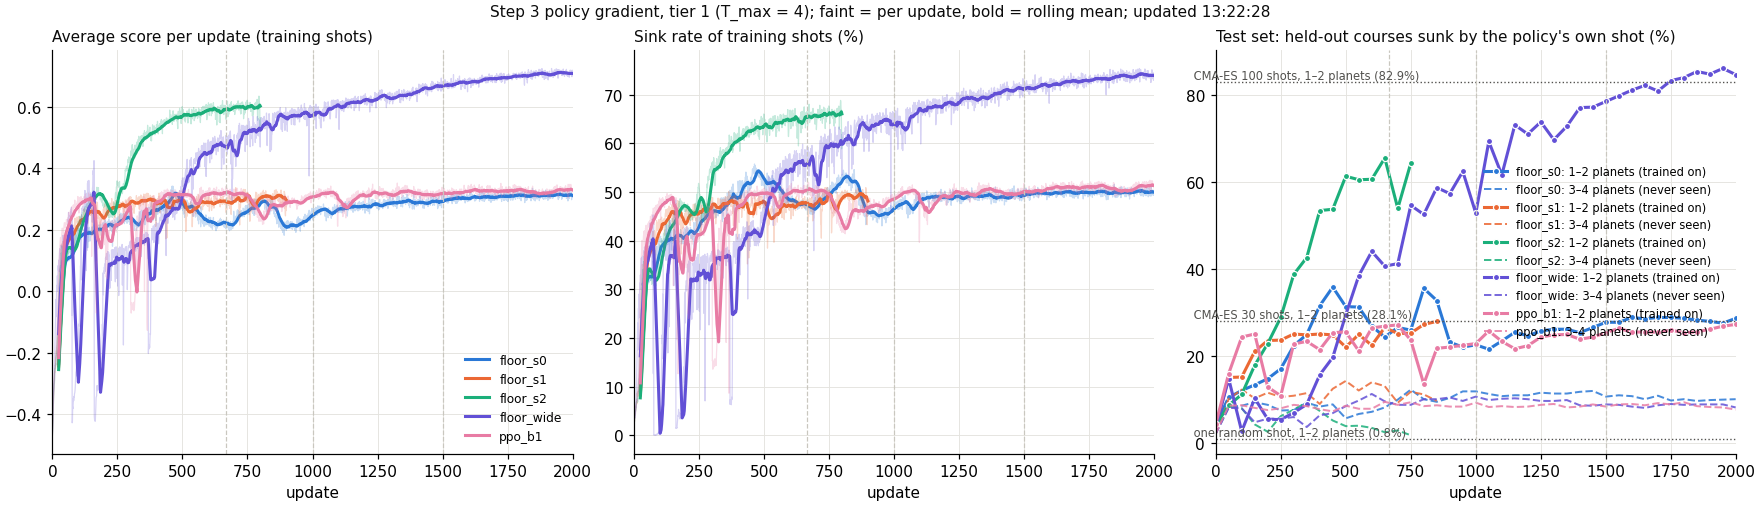
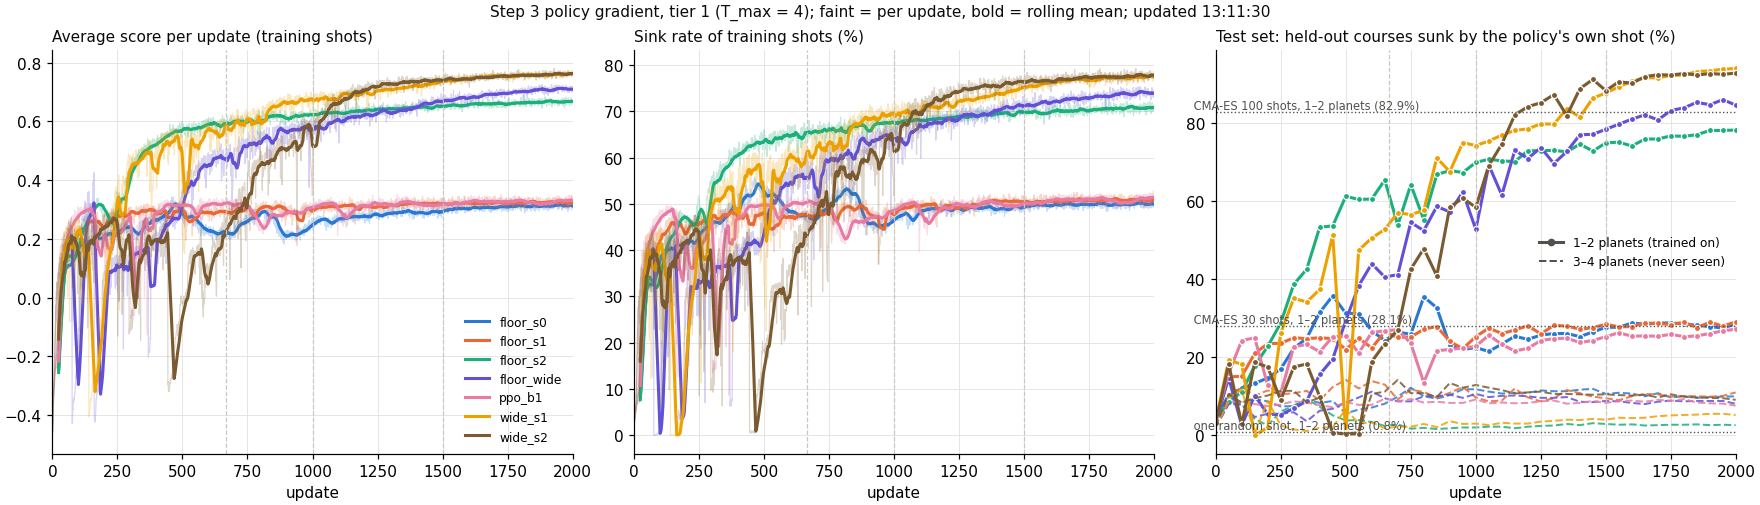
Sky classifier: the anomaly hunt. Gravity golf: three wide seeds (85-94%).
The sky-classifier page gets a section with the step 5 gallery: an asteroid
SDSS catalogs as a star, bright stars, edge-on galaxies and neighbors. It
also explains why max-softmax and energy only find faint, ambiguous
sources. "Coming" is now the field browser.

The gravity-golf learning curves now show all seven runs. The page and hub
numbers are updated: 85-94% on 1-2 planets over three seeds, and one small
network escapes the 28% plateau.

diff --git a/sky-classifier/index.html b/sky-classifier/index.html
@@ -23,6 +23,7 @@
       <li><a href="#removal">Removal test</a></li>
       <li><a href="#faint">Faint galaxies</a></li>
       <li><a href="#colors">Star colors</a></li>
+      <li><a href="#anomalies">Anomalies</a></li>
       <li><a href="#history">How it started</a></li>
     </ul>
   </div>
@@ -160,6 +161,26 @@
     </figure>
   </section>
 
+  <!-- ===================== ANOMALIES ===================== -->
+  <section id="anomalies">
+    <h2>The strangest things in 300 SDSS fields</h2>
+    <p class="prose">Every one of the 1,859 detections in the real fields is scored by how unfamiliar it looks to the final
+      classifier. Each score's threshold flags 5% of simulated objects, and on held-out simulated objects it flags 4–6%, as it
+      should. Two lessons came before any discoveries. First, the network judges the whole 24″ window, so a faint detection
+      beside a bright red neighbor looks strange. Ranking only detections that are the brightest thing in their own window fixes
+      that. Second, the two scores built on the output probabilities (max-softmax and energy) mostly find faint sources at the
+      detection limit. For a star-or-galaxy network they measure <i>ambiguity</i>, not strangeness. The feature-space score
+      (Mahalanobis distance) finds the odd objects.</p>
+    <figure class="fig">
+      <a class="zoom" href="img/fa5_anomalies.png"><img src="img/fa5_anomalies.png" alt="Gallery of the top-ranked anomalies, grouped by what they are: moving objects, bright stars, edge-on galaxies, neighbors and faint sources" loading="lazy"></a>
+      <figcaption><b>The top 50 by Mahalanobis distance, sorted by eye:</b> 18 neighbors, pairs or superpositions, 16 bright
+        stars with saturated, color-shifted cores, 11 large or edge-on galaxies, and 3 moving objects. The top-left object is an
+        <b>asteroid</b>: SDSS takes the r, i and g images minutes apart, so a moving rock shows up as separate green, red and
+        blue dots. SDSS's own catalog lists it as a star, and the network agrees with P(star) = 0.97. Only the anomaly score
+        notices. The bottom row is what max-softmax and energy rank highest: faint sources the network can't call either way.</figcaption>
+    </figure>
+  </section>
+
   <!-- ===================== HISTORY ===================== -->
   <section id="history">
     <h2>How it started: building the telescope</h2>
@@ -206,8 +227,8 @@
 
   <section id="next">
     <h2>Coming</h2>
-    <div class="callout prose"><p>An anomaly hunt: every detection in 300 real SDSS fields ranked by how unfamiliar it looks to the
-      network, and a gallery of the strangest things it finds.</p></div>
+    <div class="callout prose"><p>An interactive browser for the 300 real fields: every detection with its call, its probability
+      and its anomaly scores.</p></div>
   </section>
 </main>
 

diff --git a/gravity-golf/index.html b/gravity-golf/index.html
@@ -55,8 +55,8 @@
     <div class="stat-row">
       <div class="stat"><div class="v">0.8%</div><div class="l">of random shots sink</div></div>
       <div class="stat"><div class="v">~100</div><div class="l">shots CMA-ES needs to sink 83% of courses</div></div>
-      <div class="stat"><div class="v">85%</div><div class="l">sunk by the policy in one shot (1–2 planets)</div></div>
-      <div class="stat"><div class="v">6–10%</div><div class="l">on 3–4 planet courses it never trained on</div></div>
+      <div class="stat"><div class="v">85–94%</div><div class="l">sunk by the policy in one shot (1–2 planets, 3 seeds)</div></div>
+      <div class="stat"><div class="v">5–9%</div><div class="l">on 3–4 planet courses it never trained on</div></div>
     </div>
   </section>
 
@@ -105,10 +105,11 @@
       is trained by policy gradient on a stream of random courses, then tested on courses it has never seen.</p>
     <figure class="fig">
       <a class="zoom" href="img/step3_learning.png"><img src="img/step3_learning.png" alt="Learning curves for several training runs, with CMA-ES reference lines" loading="lazy"></a>
-      <figcaption><b>Learning curves.</b> Right panel: held-out courses sunk by the policy's single shot. The wide network
-        (purple, 3 layers of 512) climbs past the CMA-ES-with-100-shots line, at <b>85% on 1–2 planet courses</b>
-        (100% with no planets, 95% with one, 74% with two). Most runs with a smaller network stall near 28%, stuck on a
-        "fast straight shot" that ignores the planets.</figcaption>
+      <figcaption><b>Learning curves.</b> Right panel: held-out courses sunk by the policy's single shot. All three seeds of the
+        wide network (purple, gold and brown; 3 layers of 512) climb past the CMA-ES-with-100-shots line, at <b>85%, 94% and
+        93% on 1–2 planet courses</b>. The best seed sinks 98% of one-planet and 90% of two-planet courses. With a smaller
+        network, three of four runs stall near 28%, stuck on a "fast straight shot" that ignores the planets. The fourth (green)
+        escapes to 78%, so the plateau is a trap a run can fall into, not a ceiling of the small network.</figcaption>
     </figure>
     <figure class="fig">
       <a class="zoom" href="img/step3_strip_floor_wide.png"><img src="img/step3_strip_floor_wide.png" alt="The policy's shots on four courses at five points in training" loading="lazy"></a>

diff --git a/index.html b/index.html
@@ -102,8 +102,8 @@
         <div class="meta"><span class="chip running">in progress</span><span class="chip">reinforcement learning</span></div>
         <h3>Gravity golf</h3>
         <div class="q">Can an agent learn to slingshot?</div>
-        <p>One launch, a few planets, and a hole. A policy network that sees each new course once sinks 85% of 1–2 planet
-           courses in a single shot, matching an optimizer that gets 100 tries. Long flights turn the landscape fractal.</p>
+        <p>One launch, a few planets, and a hole. A policy network that sees each new course once sinks up to 94% of 1–2 planet
+           courses in a single shot, beating an optimizer that gets 100 tries. Long flights turn the landscape fractal.</p>
       </div>
     </a>
   </section>
